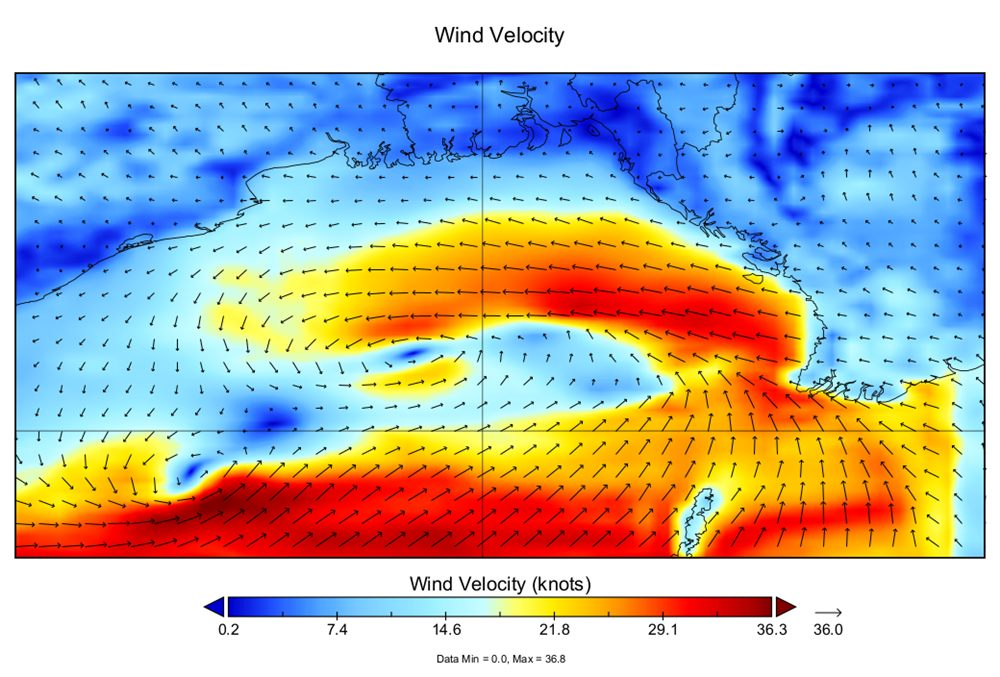
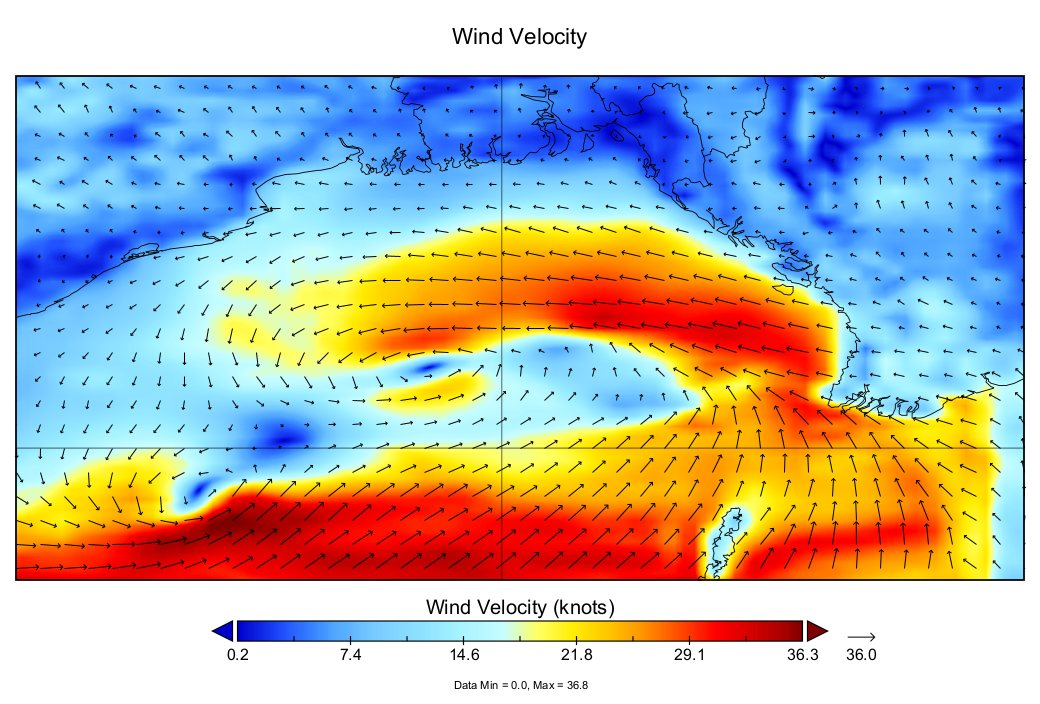
Add click-to-enlarge lightbox and sharper images for Research Portfolio

diff --git a/index.html b/index.html
@@ -188,56 +188,56 @@
       <p class="lead">A sample of modeling, GIS, and data-analysis work from across my research projects.</p>
       <div class="project-grid">
         <div class="project-card">
-          <img src="assets/research/arcgis-portfolio.jpg" alt="ArcGIS study area map of monitoring stations across Bangladesh">
+          <img src="assets/research/arcgis-portfolio.jpg" data-full="assets/research/arcgis-portfolio-full.jpg" alt="ArcGIS study area map of monitoring stations across Bangladesh" class="lightbox-trigger" tabindex="0" role="button">
           <div class="project-card-body">
             <h3>ArcGIS Portfolio</h3>
             <p>Cartographic study-area maps built in ArcGIS, plotting field monitoring stations across Bangladesh for site selection and spatial reporting.</p>
           </div>
         </div>
         <div class="project-card">
-          <img src="assets/research/gosat-co2.jpg" alt="Map of CO2 concentration over Bangladesh from GOSAT satellite data">
+          <img src="assets/research/gosat-co2.jpg" data-full="assets/research/gosat-co2-full.jpg" alt="Map of CO2 concentration over Bangladesh from GOSAT satellite data" class="lightbox-trigger" tabindex="0" role="button">
           <div class="project-card-body">
             <h3>Atmospheric Gas Concentration (GOSAT)</h3>
             <p>Mapped CO2 and CH4 concentration trends over Bangladesh using GOSAT satellite retrievals.</p>
           </div>
         </div>
         <div class="project-card">
-          <img src="assets/research/cyclone-remal.jpg" alt="Wind velocity map during Cyclone Remal">
+          <img src="assets/research/cyclone-remal.jpg" data-full="assets/research/cyclone-remal-full.jpg" alt="Wind velocity map during Cyclone Remal" class="lightbox-trigger" tabindex="0" role="button">
           <div class="project-card-body">
             <h3>Cyclone Remal</h3>
             <p>WRF-based wind velocity fields tracking Cyclone Remal as it intensified and made landfall on the Bangladesh coast, May 2024.</p>
           </div>
         </div>
         <div class="project-card">
-          <img src="assets/research/data-analysis.jpg" alt="Regression plot of CO2 versus CH4 concentration">
+          <img src="assets/research/data-analysis.jpg" data-full="assets/research/data-analysis-full.jpg" alt="Regression plot of CO2 versus CH4 concentration" class="lightbox-trigger" tabindex="0" role="button">
           <div class="project-card-body">
             <h3>Data Analysis</h3>
             <p>Regression and correlation analysis linking greenhouse gas concentrations to land cover, elevation, rainfall, and temperature.</p>
           </div>
         </div>
         <div class="project-card">
-          <img src="assets/research/model-result-visualizations.jpg" alt="Taylor diagrams comparing WRF and MPAS model performance">
+          <img src="assets/research/model-result-visualizations.jpg" data-full="assets/research/model-result-visualizations-full.jpg" alt="Taylor diagrams comparing WRF and MPAS model performance" class="lightbox-trigger" tabindex="0" role="button">
           <div class="project-card-body">
             <h3>Model Result Visualizations</h3>
             <p>Verification figures (Taylor diagrams, bias and RMSE comparisons) evaluating WRF and MPAS-A configurations against observations.</p>
           </div>
         </div>
         <div class="project-card">
-          <img src="assets/research/openfoam-simulation.jpg" alt="Computational mesh for river and estuary bathymetry in OpenFOAM">
+          <img src="assets/research/openfoam-simulation.jpg" data-full="assets/research/openfoam-simulation-full.jpg" alt="Computational mesh for river and estuary bathymetry in OpenFOAM" class="lightbox-trigger" tabindex="0" role="button">
           <div class="project-card-body">
             <h3>OpenFOAM Mesh &amp; Simulation</h3>
             <p>Unstructured computational mesh built for river and estuary bathymetry simulation in OpenFOAM.</p>
           </div>
         </div>
         <div class="project-card">
-          <img src="assets/research/weather-forecast-feb2024.jpg" alt="WRF surface temperature forecast over South Asia">
+          <img src="assets/research/weather-forecast-feb2024.jpg" data-full="assets/research/weather-forecast-feb2024-full.jpg" alt="WRF surface temperature forecast over South Asia" class="lightbox-trigger" tabindex="0" role="button">
           <div class="project-card-body">
             <h3>Weather Forecast, Feb 2024</h3>
             <p>WRF surface temperature and wind forecasts over South Asia, part of a short-range weather forecasting exercise.</p>
           </div>
         </div>
         <div class="project-card">
-          <img src="assets/research/wrf-wind-velocity.jpg" alt="WRF simulated wind velocity map over South Asia">
+          <img src="assets/research/wrf-wind-velocity.jpg" data-full="assets/research/wrf-wind-velocity-full.jpg" alt="WRF simulated wind velocity map over South Asia" class="lightbox-trigger" tabindex="0" role="button">
           <div class="project-card-body">
             <h3>WRF Wind Velocity</h3>
             <p>WRF-simulated wind velocity fields over South Asia, June 2022.</p>
@@ -326,6 +326,11 @@
     <a href="#top">Back to top ↑</a>
   </div>
 </footer>
+
+<div class="lightbox" id="lightbox" hidden>
+  <button class="lightbox-close" id="lightboxClose" aria-label="Close enlarged image">&times;</button>
+  <img src="" alt="" id="lightboxImg">
+</div>
 
 <script src="js/main.js"></script>
 </body>

diff --git a/js/main.js b/js/main.js
@@ -33,3 +33,37 @@ const spy = new IntersectionObserver(
 );
 
 sections.forEach((section) => spy.observe(section));
+
+const lightbox = document.getElementById('lightbox');
+const lightboxImg = document.getElementById('lightboxImg');
+const lightboxClose = document.getElementById('lightboxClose');
+
+function openLightbox(trigger) {
+  lightboxImg.src = trigger.getAttribute('data-full') || trigger.src;
+  lightboxImg.alt = trigger.alt;
+  lightbox.hidden = false;
+}
+
+function closeLightbox() {
+  lightbox.hidden = true;
+  lightboxImg.src = '';
+}
+
+document.querySelectorAll('.lightbox-trigger').forEach((img) => {
+  img.addEventListener('click', () => openLightbox(img));
+  img.addEventListener('keydown', (e) => {
+    if (e.key === 'Enter' || e.key === ' ') {
+      e.preventDefault();
+      openLightbox(img);
+    }
+  });
+});
+
+lightbox.addEventListener('click', closeLightbox);
+lightboxClose.addEventListener('click', (e) => {
+  e.stopPropagation();
+  closeLightbox();
+});
+document.addEventListener('keydown', (e) => {
+  if (e.key === 'Escape' && !lightbox.hidden) closeLightbox();
+});

diff --git a/css/style.css b/css/style.css
@@ -292,10 +292,45 @@ h2 { font-size: 1.9rem; display: flex; align-items: baseline; gap: 12px; margin-
   height: 170px;
   object-fit: cover;
   background: var(--paper-alt);
+  cursor: zoom-in;
 }
 .project-card-body { padding: 18px 20px; }
 .project-card h3 { font-size: 1rem; margin-bottom: 8px; }
 .project-card p { margin: 0; color: var(--muted); font-size: 0.92rem; }
+
+/* Lightbox */
+.lightbox {
+  position: fixed;
+  inset: 0;
+  z-index: 100;
+  background: rgba(17, 24, 29, 0.92);
+  display: flex;
+  align-items: center;
+  justify-content: center;
+  padding: 40px;
+  cursor: zoom-out;
+}
+.lightbox[hidden] { display: none; }
+.lightbox img {
+  max-width: 100%;
+  max-height: 100%;
+  border-radius: 8px;
+  box-shadow: 0 20px 60px rgba(0, 0, 0, 0.5);
+  cursor: default;
+}
+.lightbox-close {
+  position: absolute;
+  top: 20px;
+  right: 28px;
+  background: none;
+  border: none;
+  color: #fff;
+  font-size: 2.2rem;
+  line-height: 1;
+  cursor: pointer;
+  padding: 6px 10px;
+}
+.lightbox-close:hover { color: var(--sand); }
 
 /* Contact */
 .contact-inner { text-align: left; }
